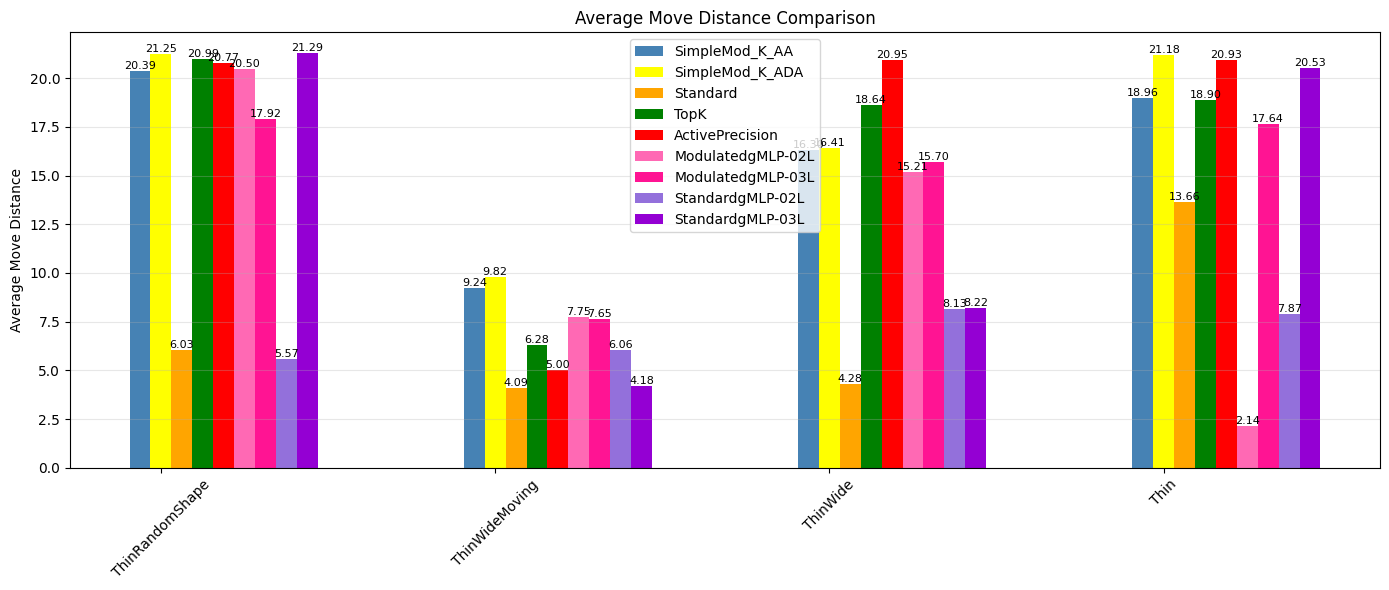
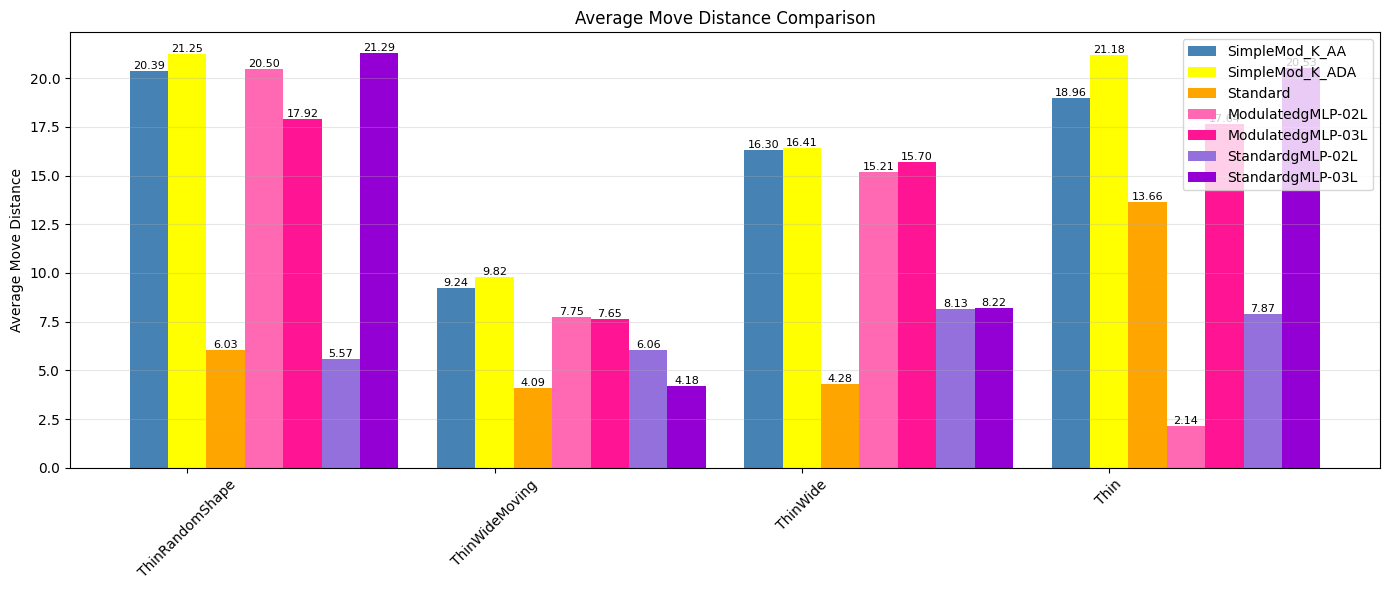
Upload GiFs and Update README

diff --git a/Vision Based Quadrupedal Locomotion/README.md b/Vision Based Quadrupedal Locomotion/README.md
@@ -32,9 +32,7 @@ This folder contains the unmodified base architectures exactly as presented in t
 
 This variant replaces the standard Multi-Layer Perceptrons (MLPs) in the policy network with **Gated MLPs**. Gating mechanisms allow the network to selectively activate or suppress different information pathways based on the current state. This typically improves the robot's ability to learn complex, nonlinear representations of uneven terrain, often yielding more stable gaits in highly constrained environments. gMLP is placed to replace $O(N^2)$ attention cost.
 
-| Standard | Modulated-gMLP |
-<!-- |:---:|:---:|
-| ![Standard](assets/Standard_ThinWide.gif) | ![Modulated](assets/Modulated_Epochs_700_ThinWide.gif) | -->
+
 
 
 ## Creating the Environment
@@ -116,39 +114,80 @@ PS: Evaluation occurs at different seeds to take mean of the performance. So it 
 * `--seed 0`: The random seed for the policy/actions.
 * `--env_seed 1`: The environment's procedural generation seed, ensuring that obstacles and terrains are generated in a specific, repeatable layout.
 
+
+
+
 ## Training Curve
 
-Training curve attached for models trained on `Thin-Wide` or Complicated Environment.
-<p align="center">
+Figure [1](#fig-training-thinwide) shows the training curves for models trained in the `ThinWide` (Complicated) environment. The curves illustrate how the average reward changes throughout training and provide an overview of the learning behaviour and convergence of the different models.
+
+<p align="center" id="fig-training-thinwide">
   <img src="assets/rewards_plot_allThinWide_smoothened.png" width="800">
 </p>
 
-Training curve for models trained on `Thin-RandomShape` or Easy Environment.
-<p align="center">
+**Figure 1:** Training curves for models trained on the `ThinWide` (Complicated) environment.
+
+
+# Performance on 10x
+| Standard Transformer | Modulated  - Apical Amplification |
+|:---:|:---:|
+| ![Standard](assets/Standard_10x.gif) | ![Modulated](assets/Modulated_700Epochs_10x.gif) |
+
+| Standard gMLP | Modulated - Apical Drive+Awake |
+|:---:|:---:|
+| ![Standard](assets/Standard-gMLP-10x.gif) | ![Modulated](assets/SimpleMod-K-ADA-ThinWide-NumF-10x.gif) |
+
+
+Figure [2](#fig-training-randomshape) shows the corresponding training curves for models trained in the `Thin-RandomShape` (Easy) environment. Compared with Figure 1, this provides a reference for how the models learn in the simpler environment.
+
+<p align="center" id="fig-training-randomshape">
   <img src="assets/rewards_plot_randomshape_smoothened.png" width="800">
 </p>
 
-## Model Comparison — ThinWide
+**Figure 2:** Training curves for models trained on the `Thin-RandomShape` (Easy) environment.
 
-The following comparisons evaluate the different models across the available environments, with **all models trained exclusively on the `ThinWide` configuration**.
+
+## Model Comparison — ThinWide
+Changing the speed of reality ($S_R$) from 1 frame per step to 50 frames per step shows how model behaves when placed in a fast changing environment. 
+
+<p align="center" id="fig-sr-curve-thin-wide">
+  <img src="assets/reward_graph_xticks_4ThinWide_whiskers_1.png" width="800">
+</p>
+
+**Figure 3:** $S_R$/$S_C$ curves for models trained on the `Thin-Wide` (Complicated) environment with 1x and evaluated uptil 50x.
+Figure [3](#fig-sr-curve-thin-wide) compares how model's performance vary when changing the speed of reality.
+
+The following figures compare the performance of the different models across the available evaluation environments. Importantly, **all models were trained exclusively using the `ThinWide` configuration**, allowing differences in performance to be attributed to the model architecture and its ability to generalise across environments.
 
 ### Average Reward
 
-<p align="center">
+Figure [4](#fig-avg-reward) compares the average reward achieved by each model across the evaluated environments. Higher reward indicates better task performance under the corresponding evaluation conditions.
+
+<p align="center" id="fig-avg-reward">
   <img src="assets/std_vs_all_avg_rew_comp.png" width="800">
 </p>
 
+**Figure 4:** Average reward across evaluation environments for models trained on `ThinWide`.
+
 ### Average Steps
 
-<p align="center">
+Figure [5](#fig-avg-steps) shows the average number of steps taken by each model. This provides an indication of how efficiently the models complete the task, with fewer steps generally corresponding to more direct trajectories when successful task completion is maintained.
+
+<p align="center" id="fig-avg-steps">
   <img src="assets/std_vs_all_avg_steps_comp.png" width="800">
 </p>
 
+**Figure 5:** Average number of steps across evaluation environments for models trained on `ThinWide`.
+
 ### Average Distance Moved
 
-<p align="center">
+Figure [6](#fig-avg-distance) presents the average distance travelled by each model across the evaluation environments. This metric provides an additional measure of movement efficiency and can help distinguish between models that achieve similar rewards but follow different trajectories.
+
+<p align="center" id="fig-avg-distance">
   <img src="assets/std_vs_all_avg_dist_comp.png" width="800">
 </p>
+
+**Figure 6:** Average distance moved across evaluation environments for models trained on `ThinWide`.
 
 
 ## 📝 Notes
